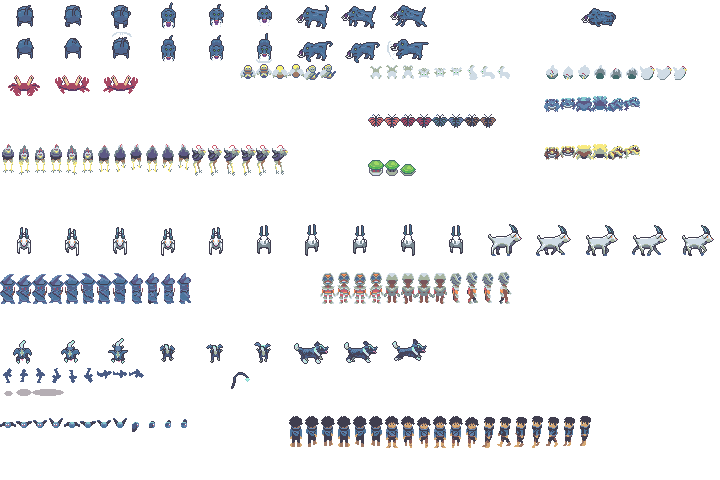
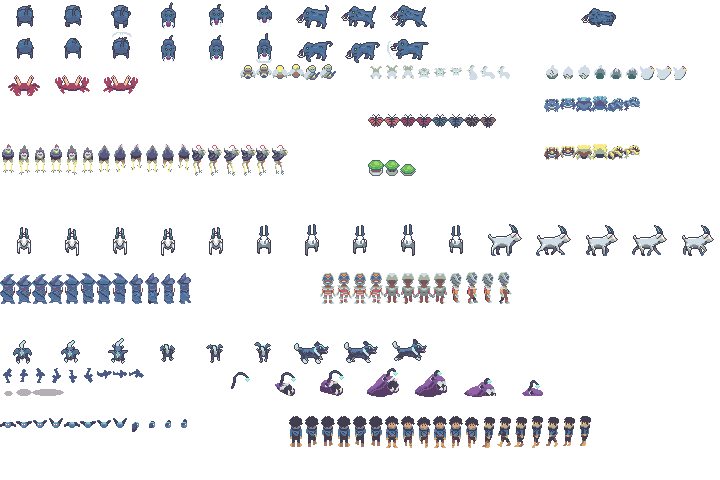
add hangler fish attack animations

Changed region(s): [[0.3667, 0.75, 0.55, 0.8438], [0.5806, 0.7812, 0.7028, 0.8438], [0.7333, 0.7812, 0.7639, 0.8438]]

diff --git a/MagicKitchen/Content/Maps/ForegroundMasterSpriteSheet.tsx b/MagicKitchen/Content/Maps/ForegroundMasterSpriteSheet.tsx
@@ -1058,6 +1058,12 @@
    </object>
   </objectgroup>
  </tile>
+ <tile id="4172">
+  <properties>
+   <property name="newHitBox" value="-16,0,64,16"/>
+   <property name="newSource" value="-16,-48,64,64"/>
+  </properties>
+ </tile>
  <tile id="4189">
   <properties>
    <property name="newSource" value="0,-32,16,48"/>
